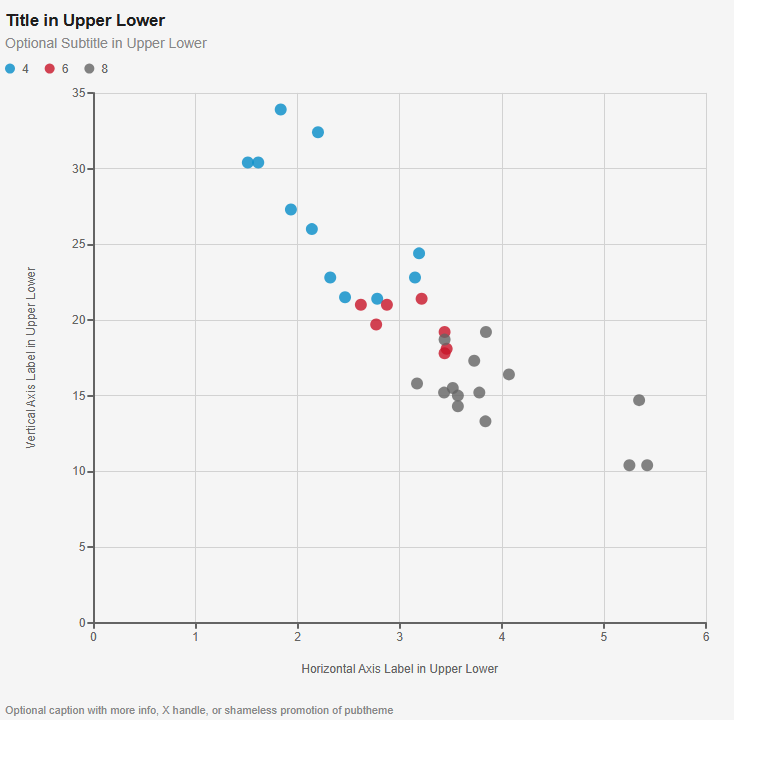
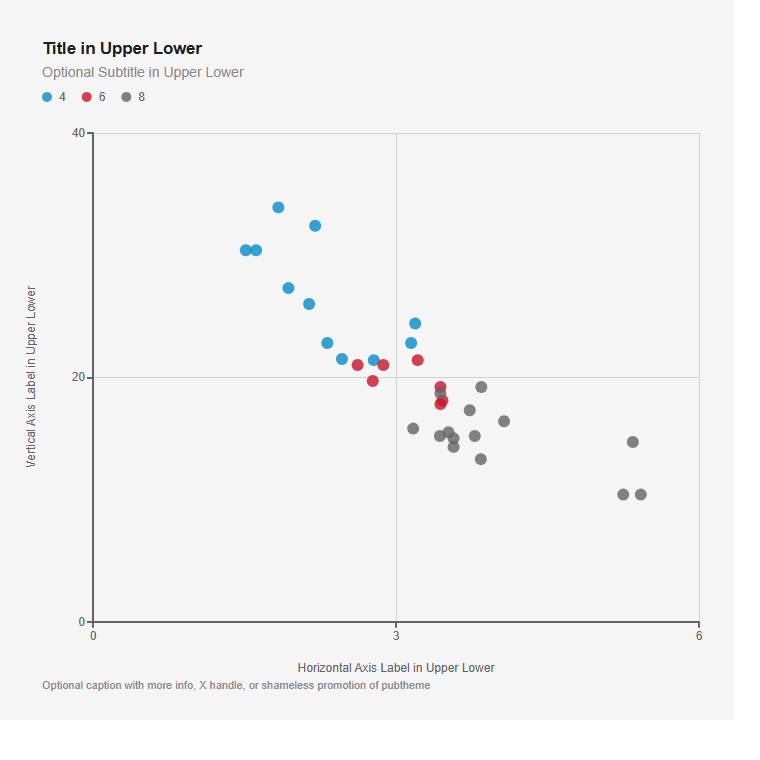
fix: align e_theme_pub margins and three-line axis limits

diff --git a/README.md b/README.md
@@ -1900,7 +1900,9 @@ mtcars |>
   e_y_axis(name = "Vertical Axis Label in Upper Lower") |>
   e_theme_pub(
     type = "scatter",
-    caption = "Optional caption with more info, X handle, or shameless promotion of pubtheme"
+    caption = "Optional caption with more info, X handle, or shameless promotion of pubtheme",
+    xlim = c(0, 6),
+    ylim = c(0, 40)
   )
 ```
 
